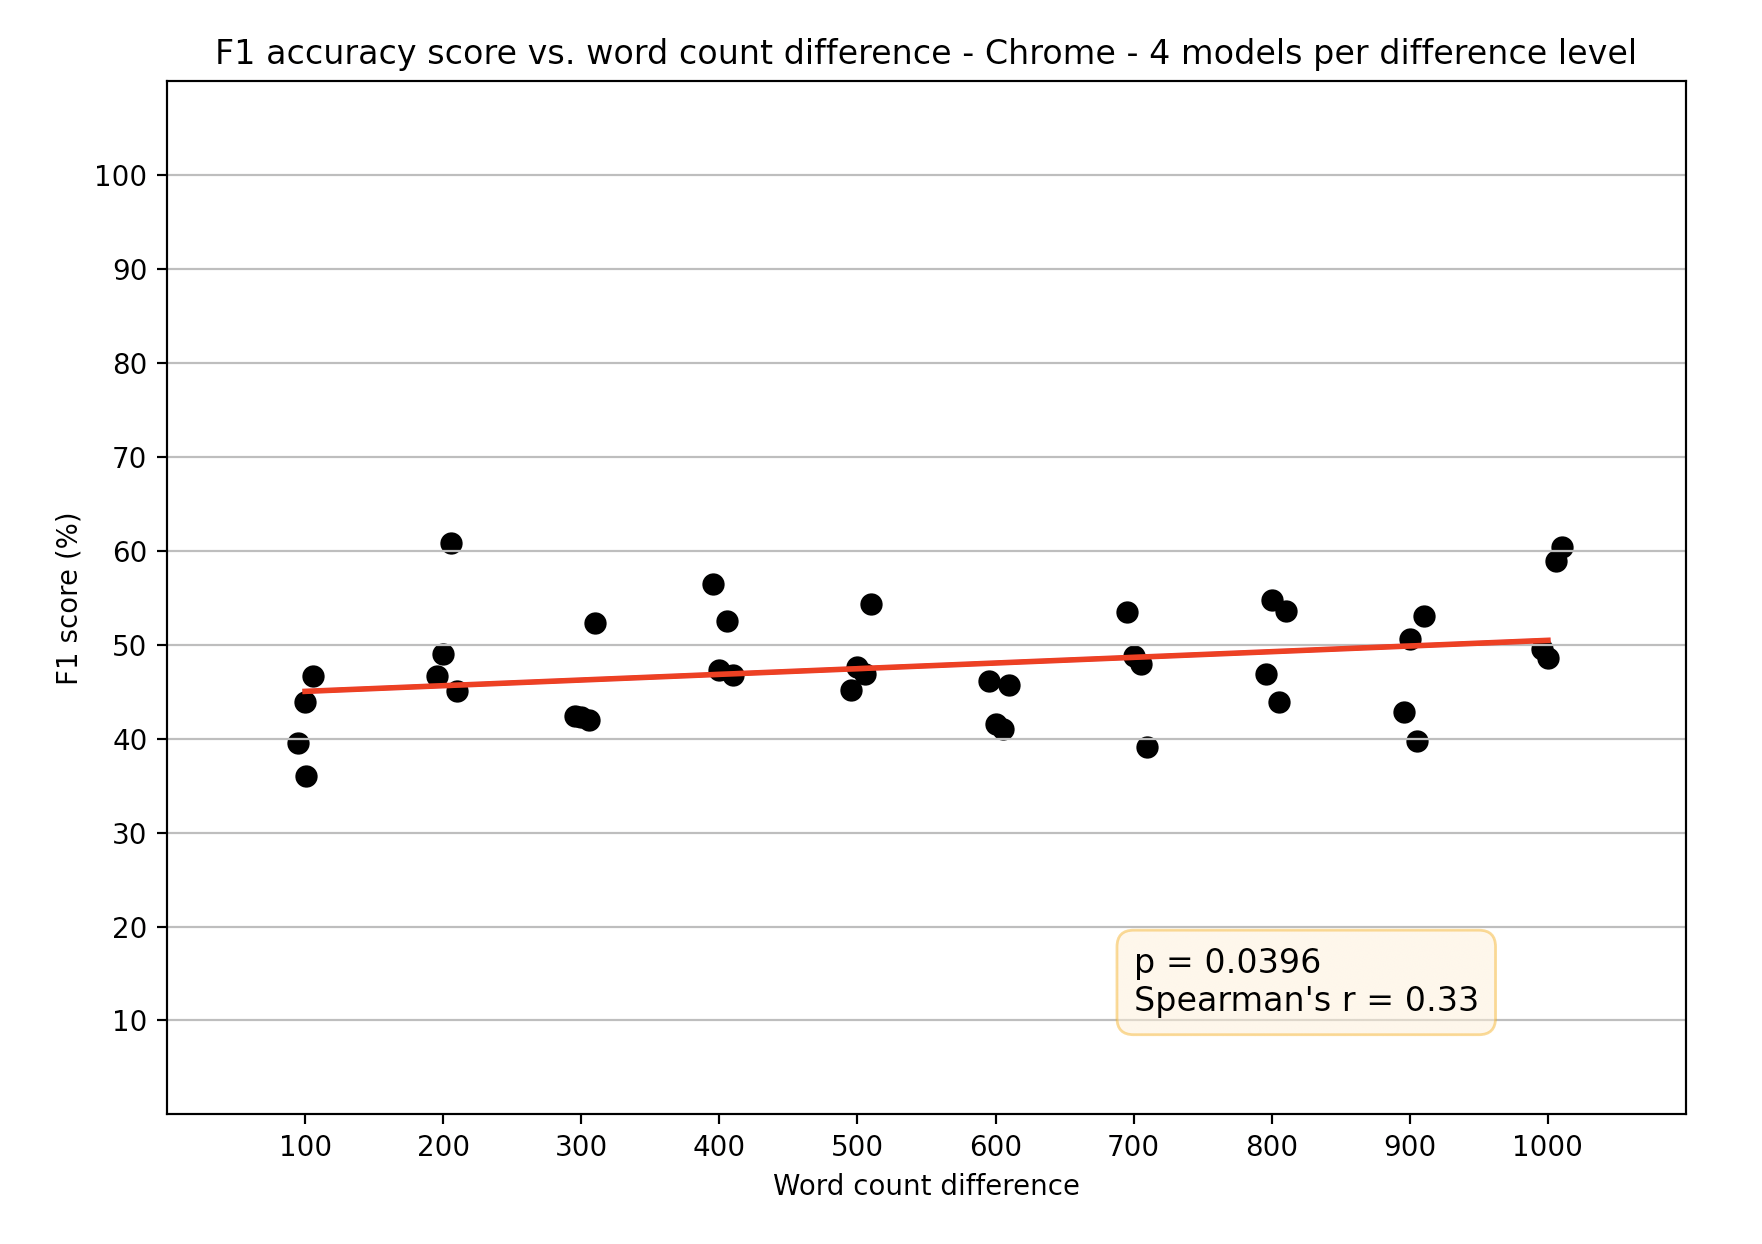
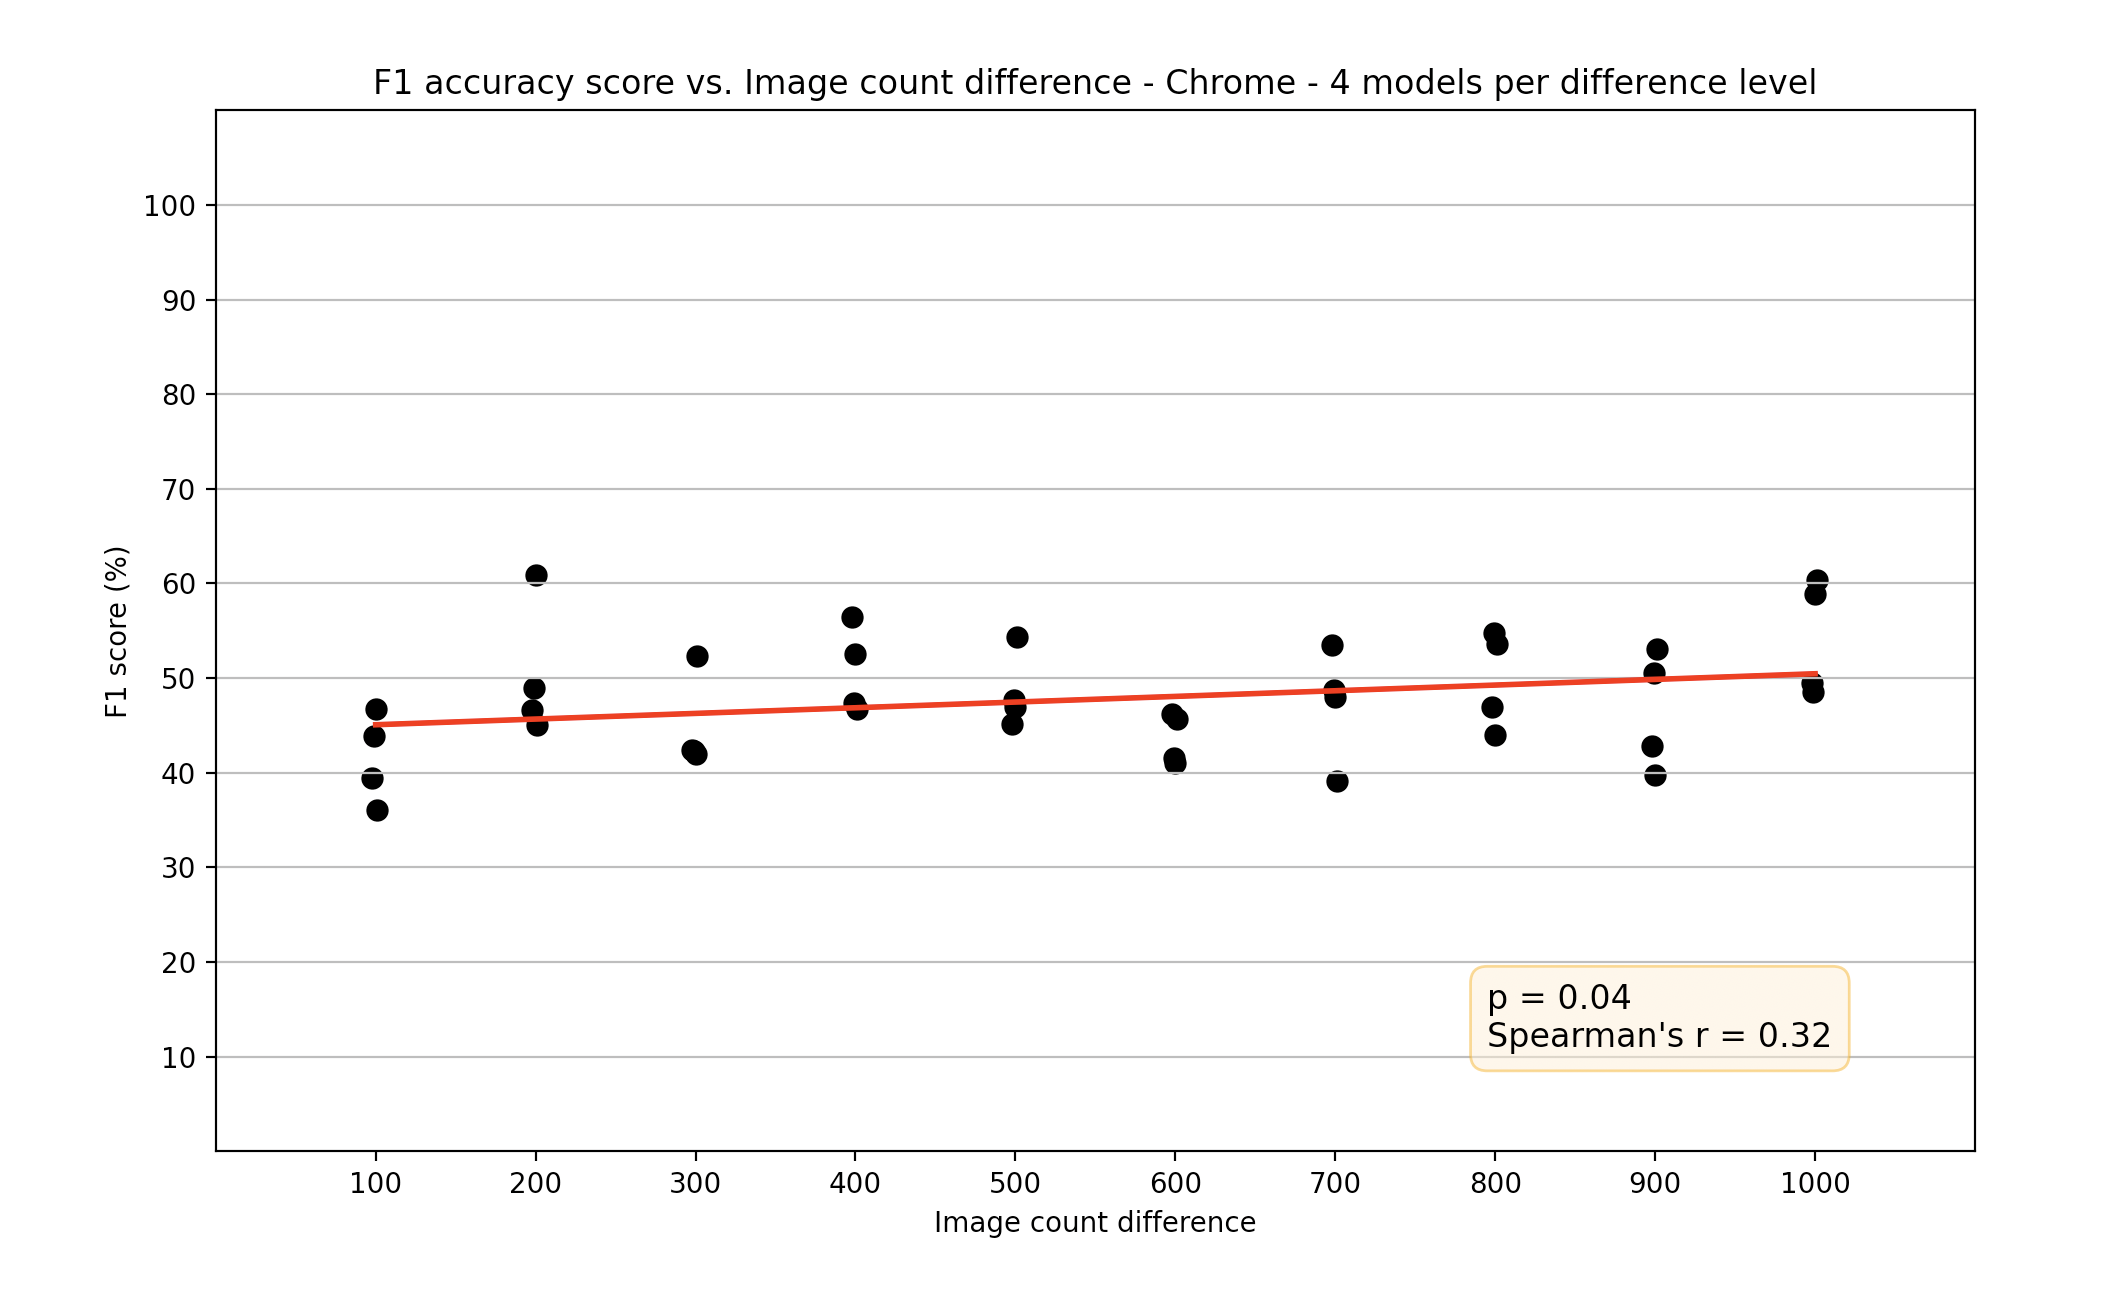
Fixed some plots that had wrong labels

diff --git a/readpredsin.py b/readpredsin.py
@@ -1,14 +1,14 @@
-p = "/Users/mateopatinohasbon/Documents/bigger-fish-main/fingerprint-mssf/chrome_traces/training/predictions/pics/thousands-scale"
+p = "/Users/mateopatinohasbon/Documents/bigger-fish-main/fingerprint-mssf/chrome_traces/training/predictions/pics/hundreds-scale"
 
 predictionPaths = [
-    [f"{p}/2000-1000pic1.npz", f"{p}/2000-1000pic2.npz", f"{p}/2000-1000pic3.npz", f"{p}/2000-1000pic4.npz"],
-    [f"{p}/3000-1000pic1.npz", f"{p}/3000-1000pic2.npz", f"{p}/3000-1000pic3.npz", f"{p}/3000-1000pic4.npz"],
-    [f"{p}/4000-1000pic1.npz", f"{p}/4000-1000pic2.npz", f"{p}/4000-1000pic3.npz", f"{p}/4000-1000pic4.npz"],
-    [f"{p}/5000-1000pic1.npz", f"{p}/5000-1000pic2.npz", f"{p}/5000-1000pic3.npz", f"{p}/5000-1000pic4.npz"],
-    [f"{p}/6000-1000pic1.npz", f"{p}/6000-1000pic2.npz", f"{p}/6000-1000pic3.npz", f"{p}/6000-1000pic4.npz"],
-    [f"{p}/7000-1000pic1.npz", f"{p}/7000-1000pic2.npz", f"{p}/7000-1000pic3.npz", f"{p}/7000-1000pic4.npz"],
-    [f"{p}/8000-1000pic1.npz", f"{p}/8000-1000pic2.npz", f"{p}/8000-1000pic3.npz", f"{p}/8000-1000pic4.npz"],
-    [f"{p}/9000-1000pic1.npz", f"{p}/9000-1000pic2.npz", f"{p}/9000-1000pic3.npz", f"{p}/9000-1000pic4.npz"],
-    [f"{p}/10000-1000pic1.npz", f"{p}/10000-1000pic2.npz", f"{p}/10000-1000pic3.npz", f"{p}/10000-1000pic4.npz"],
-    [f"{p}/11000-1000pic1.npz", f"{p}/11000-1000pic2.npz", f"{p}/11000-1000pic3.npz", f"{p}/11000-1000pic4.npz"]
+    [f"{p}/200-100pic1.npz", f"{p}/200-100pic2.npz", f"{p}/200-100pic3.npz", f"{p}/200-100pic4.npz"],
+    [f"{p}/300-100pic1.npz", f"{p}/300-100pic2.npz", f"{p}/300-100pic3.npz", f"{p}/300-100pic4.npz"],
+    [f"{p}/400-100pic1.npz", f"{p}/400-100pic2.npz", f"{p}/400-100pic3.npz", f"{p}/400-100pic4.npz"],
+    [f"{p}/500-100pic1.npz", f"{p}/500-100pic2.npz", f"{p}/500-100pic3.npz", f"{p}/500-100pic4.npz"],
+    [f"{p}/600-100pic1.npz", f"{p}/600-100pic2.npz", f"{p}/600-100pic3.npz", f"{p}/600-100pic4.npz"],
+    [f"{p}/700-100pic1.npz", f"{p}/700-100pic2.npz", f"{p}/700-100pic3.npz", f"{p}/700-100pic4.npz"],
+    [f"{p}/800-100pic1.npz", f"{p}/800-100pic2.npz", f"{p}/800-100pic3.npz", f"{p}/800-100pic4.npz"],
+    [f"{p}/900-100pic1.npz", f"{p}/900-100pic2.npz", f"{p}/900-100pic3.npz", f"{p}/900-100pic4.npz"],
+    [f"{p}/1000-100pic1.npz", f"{p}/1000-100pic2.npz", f"{p}/1000-100pic3.npz", f"{p}/1000-100pic4.npz"],
+    [f"{p}/1100-100pic1.npz", f"{p}/1100-100pic2.npz", f"{p}/1100-100pic3.npz", f"{p}/1100-100pic4.npz"]
 ]

diff --git a/plotpreds1.py b/plotpreds1.py
@@ -41,8 +41,8 @@ def main():
     xAxis = np.array(xAxis)
 
     # I MANUALLY change these parameters below depending on what plot design I want
-    upperBound = 10000 # Maximum difference used
-    lowerBound = 0
+    upperBound = 1000 # Maximum difference used
+    lowerBound = 100
     automaticTicks = False
     xseq = np.linspace(lowerBound, upperBound, 500)
 
@@ -63,7 +63,6 @@ def main():
 
         popt, pcov = curve_fit(logistic_function, xAxis, scores, bounds=(0, [100.0, 1.0, 100.0]))
         L, k, x0 = popt
-        xseq = np.linspace(0, 10000, 1000)
         reg_y_axis = logistic_function(xseq, L, k, x0)
 
     if plotType != 'none': plt.plot(xseq, reg_y_axis, color='red', lw=2)
@@ -81,16 +80,16 @@ def main():
     bbox = dict(boxstyle='round', fc='blanchedalmond', ec='orange', alpha=0.5, pad=0.5)
 
     # Plot information
-    plt.xlabel('image count difference')
+    plt.xlabel('Image count difference')
     plt.ylabel('F1 score (%)')
     plt.grid(axis='y')
     plt.ylim((0, 110))
-    plt.xlim((0, 11000)) # This xlim is also changed MANUALLY before each run
-    plt.title(f'F1 accuracy score vs. image count difference - {browser.capitalize()} - 4 models per difference level')
+    plt.xlim((0, 1100)) # This xlim is also changed MANUALLY before each run
+    plt.title(f'F1 accuracy score vs. Image count difference - {browser.capitalize()} - 4 models per difference level')
     plt.yticks([10, 20, 30, 40, 50, 60, 70, 80, 90, 100])
 
     # Add stats box; location is also MANUALLY changed to fix xaxis scale
-    plt.text(upperBound - 2500, 11, values, fontsize=12, bbox=bbox,
+    plt.text(upperBound - 205, 11, values, fontsize=12, bbox=bbox,
             horizontalalignment='left')
     
     # Set x-axis ticks
@@ -118,7 +117,7 @@ def x_ticks():
 
     xTicks5 = [5, 10, 15, 20, 25, 30, 35, 40, 45, 50]
     
-    return xTrial3
+    return xTicks2
     
 def axis():
 
@@ -237,7 +236,7 @@ def axis():
           50.85, 50.95, 51.05, 51.15
     ]
     
-    return xAxis3
+    return xAxis7
 
 # returns list with p-values and Pearson's r
 def stats(x, y):
@@ -249,7 +248,7 @@ def stats(x, y):
         r, p = pearsonr(x, y)
 
     # I round p to different values depending on how small it is
-    return round(r, 2), round(p, 8)
+    return round(r, 2), round(p, 2)
 
 
 if __name__ == "__main__":

diff --git a/cross.py b/cross.py
@@ -41,7 +41,11 @@ def main():
 
         # The average trace and its label share same index
         for index in range(len(averagedTraces)):
-            plt.plot(timeAxis, averagedTraces[index], label=traceLabels[index])
+            plt.plot(timeAxis, averagedTraces[index], label=traceLabels[index], lw=2)
+
+    if plotType == "scatter":
+        for index in range(len(averagedTraces)):
+            plt.scatter(timeAxis, averagedTraces[index], label=traceLabels[index], s=2)
     
     # Print descriptors; they help identifying which trace belongs to what browser if different browsers are plotted.
     # Averaged traces and their original pkl file paths are located at the same indexes. 
